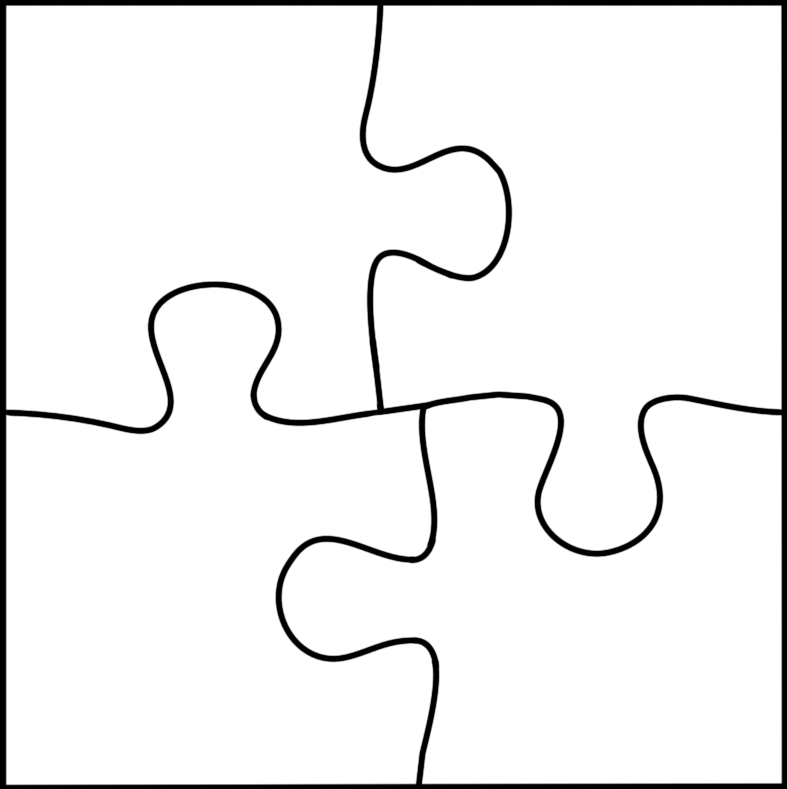
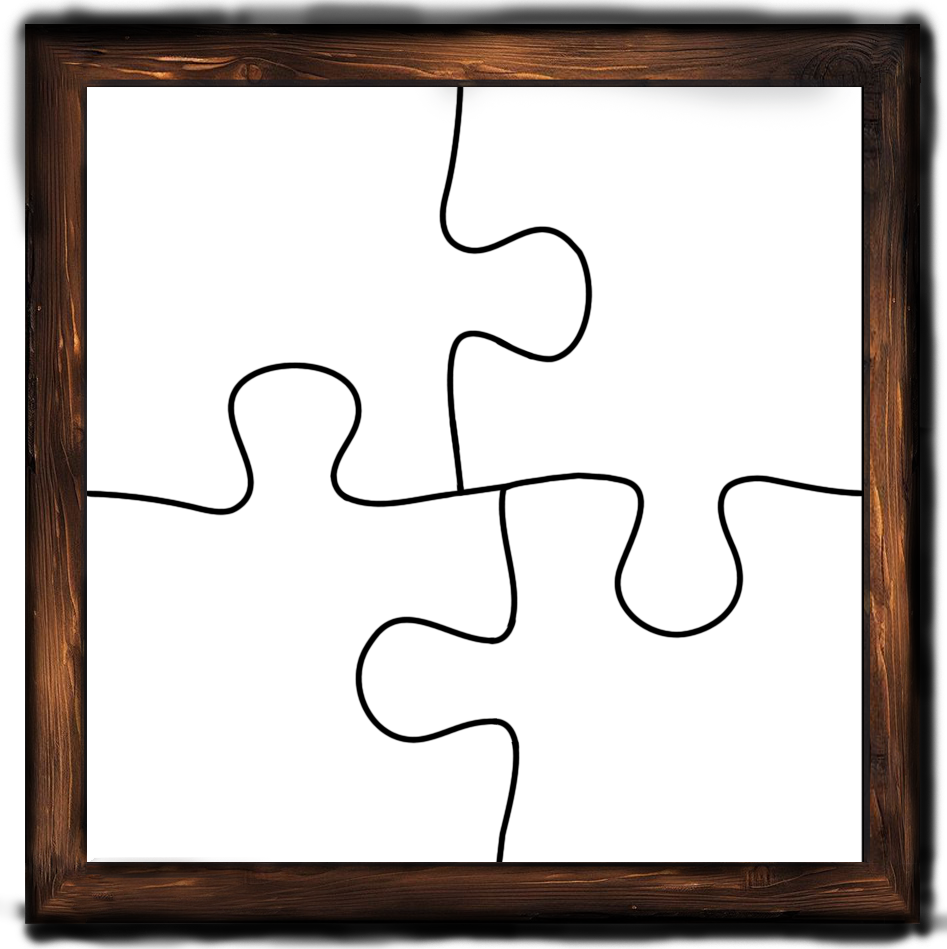
marco

diff --git a/App/main.js b/App/main.js
@@ -2,6 +2,7 @@ const piezas = document.querySelectorAll(".piezasElefante");
 const origX = [200, 304, 446, 200];
 const origY = [100, 100, 233, 204];
 const winAudio = document.getElementById("win");
+let marcoMadera = document.getElementById("marcoMadera");
 
 let letraA = false;
 let letraB = false;
@@ -19,6 +20,7 @@ let elementoLetraC = document.getElementById("letraC");
 let elementoLetraD = document.getElementById("letraD");
 
 let coordenadasVariables = 0;
+console.log(coordenadasVariables);
 
 piezas.forEach((pieza, index) => {
   const tamWidth = [134, 192, 134, 163];
@@ -103,31 +105,30 @@ function iman() {
     pieza.addEventListener("mouseup", () => {
       const posx = parseFloat(pieza.style.left);
       const posy = parseFloat(pieza.style.top);
-      let coordenadas = 0
+      let coordenadas = 0;
 
       // Define las coordenadas específicas para cada pieza
-      if (coordenadasVariables == 0){
-           coordenadas = {
-        A: {
-          left: coordenadaLeft - anchoPorcentual * 4.4,
-          top: coordenadaTop - altoPorcentual * 8.2,
-        },
-        B: {
-          left: coordenadaLeft + anchoPorcentual * 37.1,
-          top: coordenadaTop - altoPorcentual * 1.5,
-        },
-        C: {
-          left: coordenadaLeft - anchoPorcentual * 8.5,
-          top: coordenadaTop + altoPorcentual * 31.8,
-        },
-        D: {
-          left: coordenadaLeft + anchoPorcentual * 31.4,
-          top: coordenadaTop + altoPorcentual * 38.7,
-        },
-       }
-      }
-      else{
-        coordenadas = coordenadasVariables
+      if (coordenadasVariables == 0) {
+        coordenadas = {
+          A: {
+            left: coordenadaLeft - anchoPorcentual * 5,
+            top: coordenadaTop - altoPorcentual * 8.2,
+          },
+          B: {
+            left: coordenadaLeft + anchoPorcentual * 36.9,
+            top: coordenadaTop - altoPorcentual * 1.5,
+          },
+          C: {
+            left: coordenadaLeft - anchoPorcentual * 9,
+            top: coordenadaTop + altoPorcentual * 31.7,
+          },
+          D: {
+            left: coordenadaLeft + anchoPorcentual * 31.2,
+            top: coordenadaTop + altoPorcentual * 39,
+          },
+        };
+      } else {
+        coordenadas = coordenadasVariables;
       }
 
       // Aumenta la distancia de detección a 30 píxeles
@@ -212,6 +213,8 @@ function iman() {
 let coordenadaLeft = miDiv.offsetLeft;
 let coordenadaTop = miDiv.offsetTop;
 
+marcoMadera.style.left = coordenadaLeft;
+
 window.onresize = resize;
 
 function resize() {
@@ -233,7 +236,9 @@ function resize() {
     elementoLetraC.style.top = `${coordenadaTop - (altoDiv / 100) * -31.7}px`;
   }
   if (piezaDOK) {
-    elementoLetraD.style.left = `${coordenadaLeft - (anchoDiv / 100) * -31.3}px`;
+    elementoLetraD.style.left = `${
+      coordenadaLeft - (anchoDiv / 100) * -31.3
+    }px`;
     elementoLetraD.style.top = `${coordenadaTop - (altoDiv / 100) * -38.6}px`;
   }
 
@@ -251,10 +256,11 @@ function resize() {
       top: coordenadaTop - (altoDiv / 100) * -31.7,
     },
     D: {
-      left: coordenadaLeft - (anchoDiv / 100) * -31.3,
-      top: coordenadaTop - (altoDiv / 100) * -38.6,
+      left: coordenadaLeft - (anchoDiv / 100) * 8.6,
+      top: coordenadaTop - (altoDiv / 100) * -31.7,
     },
   };
+  console.log(coordenadasVariables);
 }
 
 function testing() {

diff --git a/App/style.css b/App/style.css
@@ -17,7 +17,7 @@
 .elephant-size{
   width: 80vh;
   height: auto;
-  object-fit: cover;
+  /* object-fit: cover; */
 }
 
 
@@ -38,15 +38,20 @@ body, html {
 
 .img-container {
   display: inline-flex;
+  margin-left: 9vh;
+  margin-top: 5vh;
 }
 
 
 .cuadricula{
-  width: 80vh;
+  width: 97.4vh;
   height: auto;
   z-index: 3;
   position: absolute;
   object-fit: cover;
+  left: 0vh;
+  top: 3.5vh;
+  /* opacity: 50%; */
 }
 
 body {
@@ -57,7 +62,7 @@ body {
   background-position: center;
   background-repeat: no-repeat; 
   height: 100vh; 
-  overflow: hidden; 
+  overflow: hidden;
 }
 
 
@@ -65,8 +70,6 @@ body {
   display: flex;
   height: 100vh;
   align-items: center;
-  margin-top: 2.4vh;
-  margin-left: 8vh;
   
 }
 
